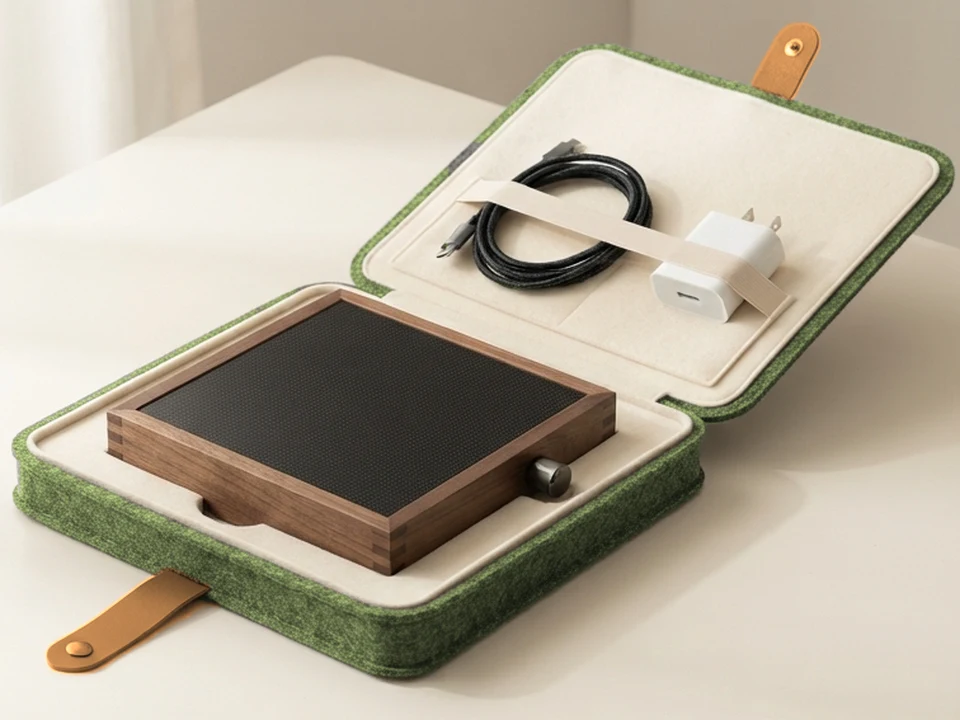
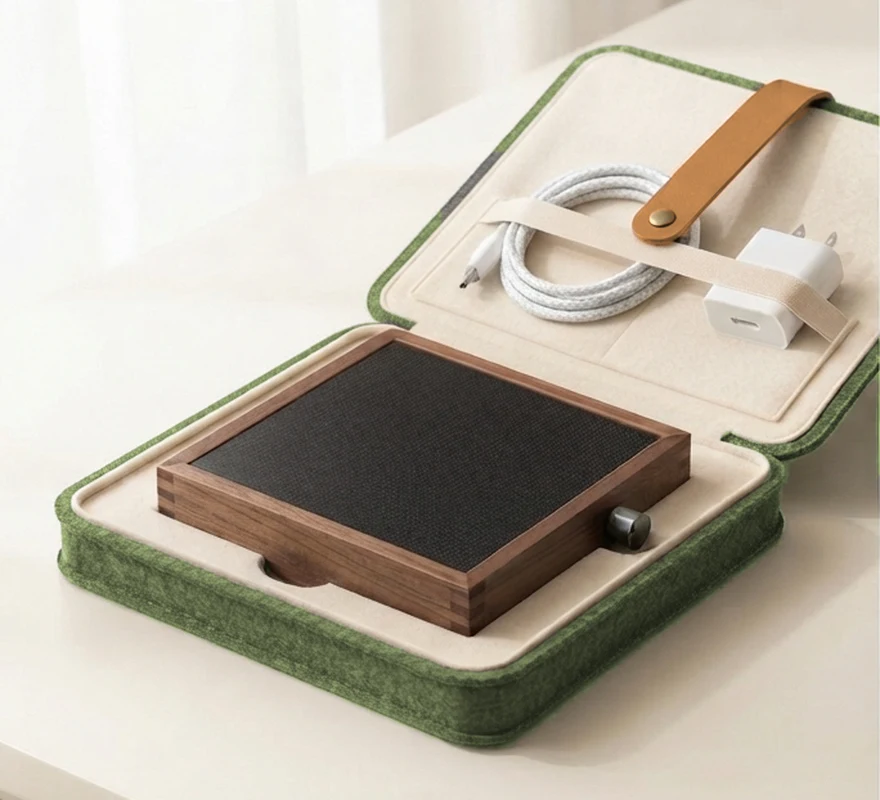
Site: case card with open and closed renders for every colour
New Sumi and Kinari renders (single strap over the lid, knurled knob,
closed case as a rounded square that stands on its edge); Ai and Matcha
recoloured from the Sumi pair. Each colour shows its open view, then
its closed view fades in. The stickers and case cards use an 11:10
frame so the renders fit without cropping into the product.

Claude-Session: https://claude.ai/code/session_01MjtzJyNk46ibxxTb3dZ6aj

diff --git a/ja/index.html b/ja/index.html
@@ -36,7 +36,7 @@
   <link rel="preconnect" href="https://fonts.gstatic.com" crossorigin>
   <link href="https://fonts.googleapis.com/css2?family=Shippori+Mincho:wght@400;500;600;700;800&family=IBM+Plex+Sans:wght@300;400;500;600&display=swap" rel="stylesheet" />
 
-  <link rel="stylesheet" href="../style.css?v=202610201725" />
+  <link rel="stylesheet" href="../style.css?v=202610201807" />
 
   <!-- First visit from a Japanese or German browser: go to that page, unless
        the visitor already picked a language with the switcher. -->
@@ -603,8 +603,8 @@
 
         <article class="product reveal">
           <div class="product-media">
-            <img src="../assets/images/shop/stickers-sheet.webp" alt="机の上のhakoステッカーシート:かお、もち、LEDの箱、「箱」の落款。1枚は半分はがれかけ" width="960" height="720" loading="lazy" />
-            <img class="media-alt" src="../assets/images/shop/stickers-use.webp" alt="ノートPC、水筒、ノートに貼ったhakoステッカー" width="960" height="720" loading="lazy" />
+            <img src="../assets/images/shop/stickers-sheet.webp" alt="机の上のhakoステッカーシート:かお、もち、LEDの箱、「箱」の落款。1枚は半分はがれかけ" width="880" height="800" loading="lazy" />
+            <img class="media-alt" src="../assets/images/shop/stickers-use.webp" alt="ノートPC、水筒、ノートに貼ったhakoステッカー" width="880" height="800" loading="lazy" />
             <span class="proto-tag">コンセプト画像</span>
           </div>
           <div class="product-body">
@@ -619,10 +619,14 @@
 
         <article class="product reveal">
           <div class="product-media is-swatched">
-            <img class="is-on" src="../assets/images/shop/case-sumi.webp" alt="コニャック色の革ベルトが付いたチャコールのフェルト製hakoケース(hakoを入れて開いた状態)のコンセプト画像" width="960" height="720" loading="lazy" data-swatch="sumi" />
-            <img src="../assets/images/shop/case-kinari.webp" alt="明るい革ベルトが付いた生成りのフェルト製hakoケース(hakoを入れて開いた状態)のコンセプト画像" width="960" height="720" loading="lazy" data-swatch="kinari" />
-            <img src="../assets/images/shop/case-ai.webp" alt="こげ茶の革ベルトが付いた藍色のフェルト製hakoケース(hakoを入れて開いた状態)のコンセプト画像" width="960" height="720" loading="lazy" data-swatch="ai" />
-            <img src="../assets/images/shop/case-matcha.webp" alt="タンの革ベルトが付いたモスグリーンのフェルト製hakoケース(hakoを入れて開いた状態)のコンセプト画像" width="960" height="720" loading="lazy" data-swatch="matcha" />
+            <img class="is-on" src="../assets/images/shop/case-sumi.webp" alt="コニャック色の革ベルトが付いたチャコールのフェルト製hakoケース(hakoを入れて開いた状態)のコンセプト画像" width="880" height="800" loading="lazy" data-swatch="sumi" />
+            <img class="swatch-alt is-on" src="../assets/images/shop/case-sumi-closed.webp" alt="閉じて立てたhakoケースのコンセプト画像:コニャック色の革ベルトが付いたチャコールのフェルト" width="880" height="800" loading="lazy" data-swatch="sumi" />
+            <img src="../assets/images/shop/case-kinari.webp" alt="明るい革ベルトが付いた生成りのフェルト製hakoケース(hakoを入れて開いた状態)のコンセプト画像" width="880" height="800" loading="lazy" data-swatch="kinari" />
+            <img class="swatch-alt" src="../assets/images/shop/case-kinari-closed.webp" alt="閉じて立てたhakoケースのコンセプト画像:明るい革ベルトが付いた生成りのフェルト" width="880" height="800" loading="lazy" data-swatch="kinari" />
+            <img src="../assets/images/shop/case-ai.webp" alt="こげ茶の革ベルトが付いた藍色のフェルト製hakoケース(hakoを入れて開いた状態)のコンセプト画像" width="880" height="800" loading="lazy" data-swatch="ai" />
+            <img class="swatch-alt" src="../assets/images/shop/case-ai-closed.webp" alt="閉じて立てたhakoケースのコンセプト画像:こげ茶の革ベルトが付いた藍色のフェルト" width="880" height="800" loading="lazy" data-swatch="ai" />
+            <img src="../assets/images/shop/case-matcha.webp" alt="タンの革ベルトが付いたモスグリーンのフェルト製hakoケース(hakoを入れて開いた状態)のコンセプト画像" width="880" height="800" loading="lazy" data-swatch="matcha" />
+            <img class="swatch-alt" src="../assets/images/shop/case-matcha-closed.webp" alt="閉じて立てたhakoケースのコンセプト画像:タンの革ベルトが付いたモスグリーンのフェルト" width="880" height="800" loading="lazy" data-swatch="matcha" />
             <span class="proto-tag">コンセプト画像</span>
           </div>
           <div class="product-body">
@@ -1130,7 +1134,7 @@
     </div>
   </footer>
 
-  <script src="../script.js?v=202610201725"></script>
+  <script src="../script.js?v=202610201807"></script>
   <script src="../assets/demo.js" defer></script>
 </body>
 </html>

diff --git a/de/index.html b/de/index.html
@@ -36,7 +36,7 @@
   <link rel="preconnect" href="https://fonts.gstatic.com" crossorigin>
   <link href="https://fonts.googleapis.com/css2?family=Shippori+Mincho:wght@400;500;600;700;800&family=IBM+Plex+Sans:wght@300;400;500;600&display=swap" rel="stylesheet" />
 
-  <link rel="stylesheet" href="../style.css?v=202610201725" />
+  <link rel="stylesheet" href="../style.css?v=202610201807" />
 
   <!-- First visit from a Japanese or German browser: go to that page, unless
        the visitor already picked a language with the switcher. -->
@@ -603,8 +603,8 @@
 
         <article class="product reveal">
           <div class="product-media">
-            <img src="../assets/images/shop/stickers-sheet.webp" alt="Ein Bogen hako-Sticker auf dem Schreibtisch: Kao, Mochi, die LED-Box und das 箱-Siegel, einer halb abgezogen" width="960" height="720" loading="lazy" />
-            <img class="media-alt" src="../assets/images/shop/stickers-use.webp" alt="hako-Sticker auf einem Laptop, einer Trinkflasche und einem Notizbuch" width="960" height="720" loading="lazy" />
+            <img src="../assets/images/shop/stickers-sheet.webp" alt="Ein Bogen hako-Sticker auf dem Schreibtisch: Kao, Mochi, die LED-Box und das 箱-Siegel, einer halb abgezogen" width="880" height="800" loading="lazy" />
+            <img class="media-alt" src="../assets/images/shop/stickers-use.webp" alt="hako-Sticker auf einem Laptop, einer Trinkflasche und einem Notizbuch" width="880" height="800" loading="lazy" />
             <span class="proto-tag">Konzept-Rendering</span>
           </div>
           <div class="product-body">
@@ -619,10 +619,14 @@
 
         <article class="product reveal">
           <div class="product-media is-swatched">
-            <img class="is-on" src="../assets/images/shop/case-sumi.webp" alt="Konzept-Rendering (geöffnet, mit hako darin) einer anthrazitfarbenen Filztasche für hako mit cognacfarbenem Lederriemen" width="960" height="720" loading="lazy" data-swatch="sumi" />
-            <img src="../assets/images/shop/case-kinari.webp" alt="Konzept-Rendering (geöffnet, mit hako darin) einer naturbelassenen Filztasche für hako mit hellem Lederriemen" width="960" height="720" loading="lazy" data-swatch="kinari" />
-            <img src="../assets/images/shop/case-ai.webp" alt="Konzept-Rendering (geöffnet, mit hako darin) einer indigoblauen Filztasche für hako mit dunkelbraunem Lederriemen" width="960" height="720" loading="lazy" data-swatch="ai" />
-            <img src="../assets/images/shop/case-matcha.webp" alt="Konzept-Rendering (geöffnet, mit hako darin) einer moosgrünen Filztasche für hako mit hellbraunem Lederriemen" width="960" height="720" loading="lazy" data-swatch="matcha" />
+            <img class="is-on" src="../assets/images/shop/case-sumi.webp" alt="Konzept-Rendering (geöffnet, mit hako darin) einer anthrazitfarbenen Filztasche für hako mit cognacfarbenem Lederriemen" width="880" height="800" loading="lazy" data-swatch="sumi" />
+            <img class="swatch-alt is-on" src="../assets/images/shop/case-sumi-closed.webp" alt="Konzept-Rendering der geschlossenen, stehenden hako-Tasche: anthrazitfarbener Filz mit cognacfarbenem Lederriemen" width="880" height="800" loading="lazy" data-swatch="sumi" />
+            <img src="../assets/images/shop/case-kinari.webp" alt="Konzept-Rendering (geöffnet, mit hako darin) einer naturbelassenen Filztasche für hako mit hellem Lederriemen" width="880" height="800" loading="lazy" data-swatch="kinari" />
+            <img class="swatch-alt" src="../assets/images/shop/case-kinari-closed.webp" alt="Konzept-Rendering der geschlossenen, stehenden hako-Tasche: naturbelassener Filz mit hellem Lederriemen" width="880" height="800" loading="lazy" data-swatch="kinari" />
+            <img src="../assets/images/shop/case-ai.webp" alt="Konzept-Rendering (geöffnet, mit hako darin) einer indigoblauen Filztasche für hako mit dunkelbraunem Lederriemen" width="880" height="800" loading="lazy" data-swatch="ai" />
+            <img class="swatch-alt" src="../assets/images/shop/case-ai-closed.webp" alt="Konzept-Rendering der geschlossenen, stehenden hako-Tasche: indigoblauer Filz mit dunkelbraunem Lederriemen" width="880" height="800" loading="lazy" data-swatch="ai" />
+            <img src="../assets/images/shop/case-matcha.webp" alt="Konzept-Rendering (geöffnet, mit hako darin) einer moosgrünen Filztasche für hako mit hellbraunem Lederriemen" width="880" height="800" loading="lazy" data-swatch="matcha" />
+            <img class="swatch-alt" src="../assets/images/shop/case-matcha-closed.webp" alt="Konzept-Rendering der geschlossenen, stehenden hako-Tasche: moosgrüner Filz mit hellbraunem Lederriemen" width="880" height="800" loading="lazy" data-swatch="matcha" />
             <span class="proto-tag">Konzept-Rendering</span>
           </div>
           <div class="product-body">
@@ -1130,7 +1134,7 @@
     </div>
   </footer>
 
-  <script src="../script.js?v=202610201725"></script>
+  <script src="../script.js?v=202610201807"></script>
   <script src="../assets/demo.js" defer></script>
 </body>
 </html>

diff --git a/index.html b/index.html
@@ -35,7 +35,7 @@
   <link rel="preconnect" href="https://fonts.gstatic.com" crossorigin>
   <link href="https://fonts.googleapis.com/css2?family=Shippori+Mincho:wght@400;500;600;700;800&family=IBM+Plex+Sans:wght@300;400;500;600&display=swap" rel="stylesheet" />
 
-  <link rel="stylesheet" href="style.css?v=202610201725" />
+  <link rel="stylesheet" href="style.css?v=202610201807" />
 
   <!-- First visit from a Japanese or German browser: go to that page, unless
        the visitor already picked a language with the switcher. -->
@@ -582,8 +582,8 @@
 
         <article class="product reveal">
           <div class="product-media">
-            <img src="assets/images/shop/stickers-sheet.webp" alt="A sheet of hako stickers on a desk: Kao, Mochi, the LED box and the 箱 seal, one half peeled" width="960" height="720" loading="lazy" />
-            <img class="media-alt" src="assets/images/shop/stickers-use.webp" alt="hako stickers on a laptop, a water bottle and a notebook" width="960" height="720" loading="lazy" />
+            <img src="assets/images/shop/stickers-sheet.webp" alt="A sheet of hako stickers on a desk: Kao, Mochi, the LED box and the 箱 seal, one half peeled" width="880" height="800" loading="lazy" />
+            <img class="media-alt" src="assets/images/shop/stickers-use.webp" alt="hako stickers on a laptop, a water bottle and a notebook" width="880" height="800" loading="lazy" />
             <span class="proto-tag">Concept render</span>
           </div>
           <div class="product-body">
@@ -598,10 +598,14 @@
 
         <article class="product reveal">
           <div class="product-media is-swatched">
-            <img class="is-on" src="assets/images/shop/case-sumi.webp" alt="Concept render of the hako case, open with hako inside: a charcoal felt case with a cognac leather strap" width="960" height="720" loading="lazy" data-swatch="sumi" />
-            <img src="assets/images/shop/case-kinari.webp" alt="Concept render of the hako case, open with hako inside: a natural undyed felt case with a light leather strap" width="960" height="720" loading="lazy" data-swatch="kinari" />
-            <img src="assets/images/shop/case-ai.webp" alt="Concept render of the hako case, open with hako inside: an indigo felt case with a dark brown leather strap" width="960" height="720" loading="lazy" data-swatch="ai" />
-            <img src="assets/images/shop/case-matcha.webp" alt="Concept render of the hako case, open with hako inside: a moss green felt case with a tan leather strap" width="960" height="720" loading="lazy" data-swatch="matcha" />
+            <img class="is-on" src="assets/images/shop/case-sumi.webp" alt="Concept render of the hako case, open with hako inside: a charcoal felt case with a cognac leather strap" width="880" height="800" loading="lazy" data-swatch="sumi" />
+            <img class="swatch-alt is-on" src="assets/images/shop/case-sumi-closed.webp" alt="Concept render of the hako case closed and standing: charcoal felt with a cognac leather strap" width="880" height="800" loading="lazy" data-swatch="sumi" />
+            <img src="assets/images/shop/case-kinari.webp" alt="Concept render of the hako case, open with hako inside: a natural undyed felt case with a light leather strap" width="880" height="800" loading="lazy" data-swatch="kinari" />
+            <img class="swatch-alt" src="assets/images/shop/case-kinari-closed.webp" alt="Concept render of the hako case closed and standing: natural undyed felt with a light leather strap" width="880" height="800" loading="lazy" data-swatch="kinari" />
+            <img src="assets/images/shop/case-ai.webp" alt="Concept render of the hako case, open with hako inside: an indigo felt case with a dark brown leather strap" width="880" height="800" loading="lazy" data-swatch="ai" />
+            <img class="swatch-alt" src="assets/images/shop/case-ai-closed.webp" alt="Concept render of the hako case closed and standing: indigo felt with a dark brown leather strap" width="880" height="800" loading="lazy" data-swatch="ai" />
+            <img src="assets/images/shop/case-matcha.webp" alt="Concept render of the hako case, open with hako inside: a moss green felt case with a tan leather strap" width="880" height="800" loading="lazy" data-swatch="matcha" />
+            <img class="swatch-alt" src="assets/images/shop/case-matcha-closed.webp" alt="Concept render of the hako case closed and standing: moss green felt with a tan leather strap" width="880" height="800" loading="lazy" data-swatch="matcha" />
             <span class="proto-tag">Concept render</span>
           </div>
           <div class="product-body">
@@ -1116,7 +1120,7 @@
     </div>
   </footer>
 
-  <script src="script.js?v=202610201725"></script>
+  <script src="script.js?v=202610201807"></script>
   <script src="assets/demo.js" defer></script>
 </body>
 </html>

diff --git a/style.css b/style.css
@@ -3449,3 +3449,16 @@ body.gate-locked { overflow: hidden; }
   font-size: 13px;
   color: var(--muted);
 }
+
+/* the top-row cards (stickers, case) use a squarer frame that fits their renders */
+.shop-grid > .product:not(.product-main):not(.product-next) .product-media { aspect-ratio: 11 / 10; }
+
+/* each colour's closed view fades in and out over its open view */
+.product-media.is-swatched img.swatch-alt.is-on {
+  opacity: 0;
+  animation: media-swap 12s ease-in-out infinite;
+}
+
+@media (prefers-reduced-motion: reduce) {
+  .product-media.is-swatched img.swatch-alt.is-on { animation: none; opacity: 0; }
+}
